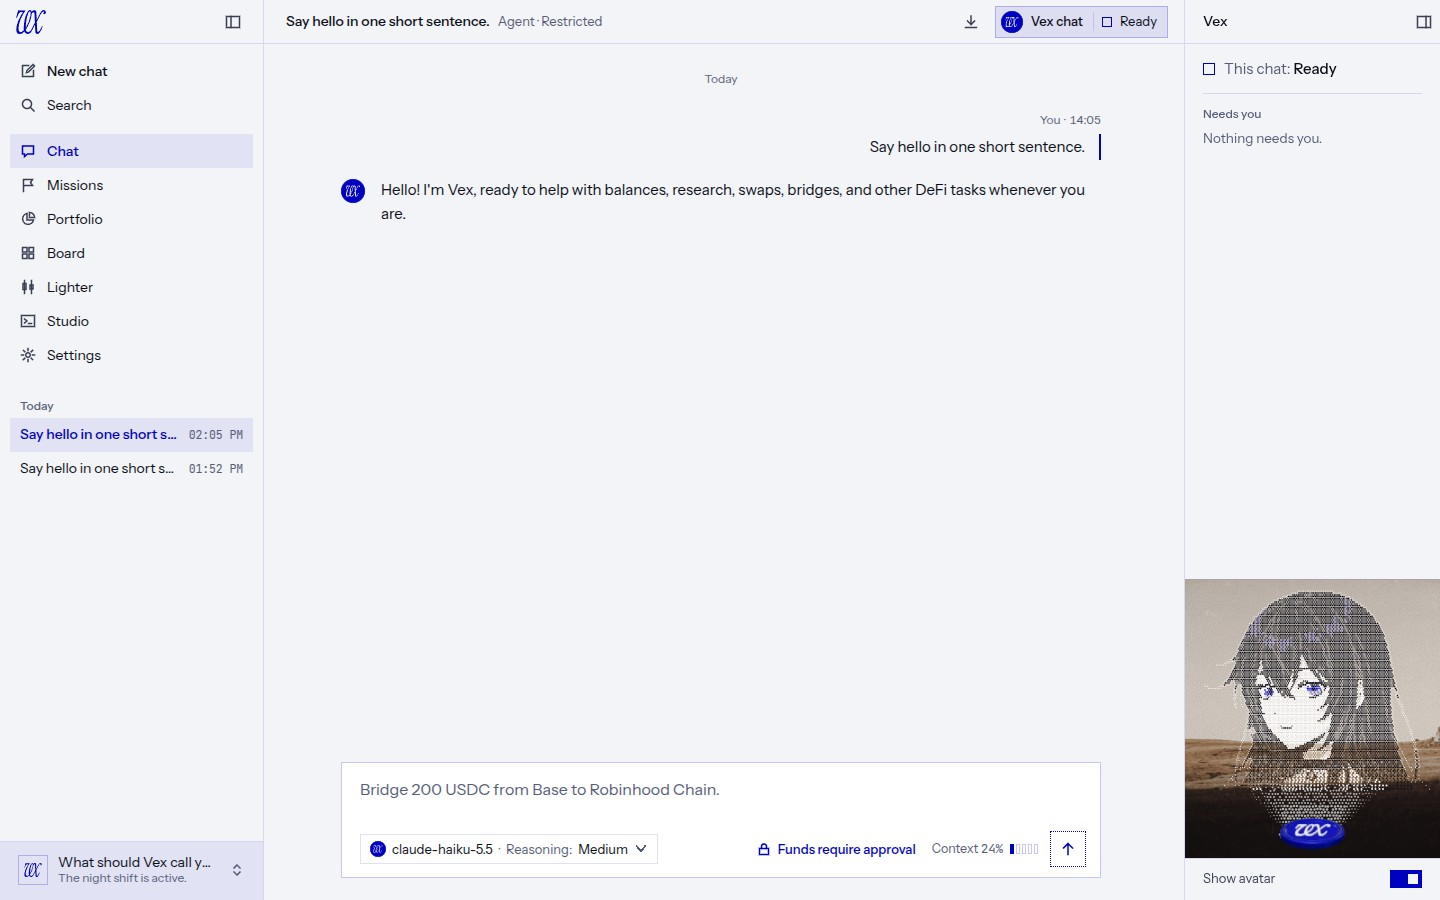
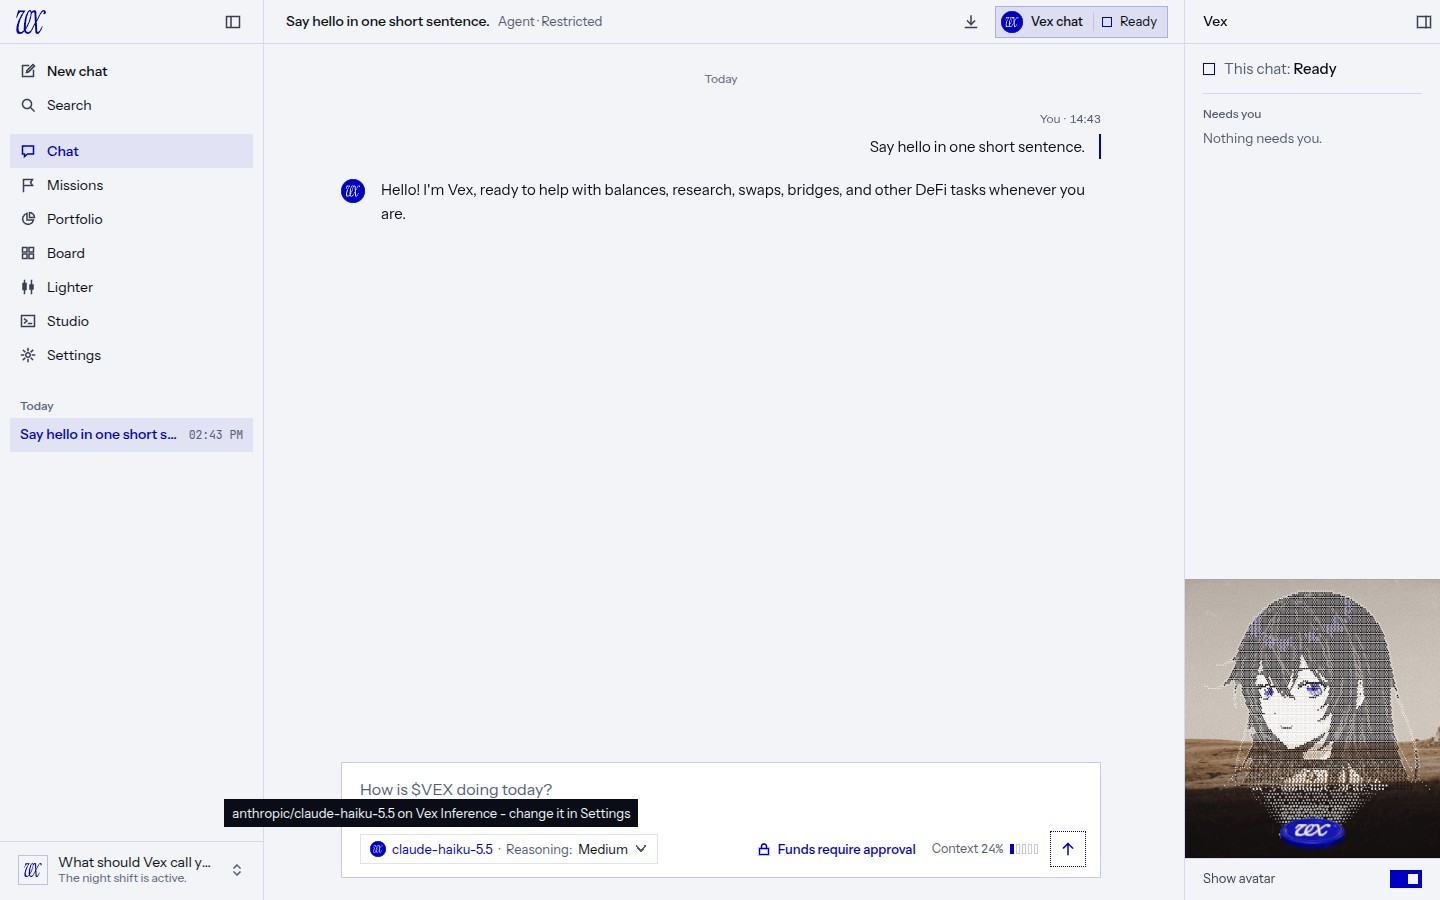
docs(app): re-shoot the v0.4.2 account, auto top-up and composer images
Captured from the built c969be6d0 app on a fresh throwaway profile with the
native runtime, signed in to the production Vex Inference gateway with perf
wallet T2, light theme at 1440x900. The account panel is shot at rest while
an owner deposit is still provisional, so "Deposit credit, not final yet"
carries a real amount at the new display precision. The auto top-up rule card
is shot and then rejected. The composer shot now shows the provider tooltip,
which no longer clips at the centre column. No transaction was signed.

The deposit approval card cannot be opened with no VEX on chain, and no
withdrawal was created, so both images leave the notes, and so does the
"Screenshots to capture" list; a closing line says they follow later.

The screenshot spec now imports a chosen perf wallet
(VEX_RELEASE_SHOTS_KEY_FILE plus VEX_RELEASE_SHOTS_WALLET) instead of a key
passed in the environment, shoots the account panel at rest right after the
provider stage, and waits for a new vault to finish sealing.

diff --git a/vex-app/e2e/release-0.4.2-screenshots.spec.ts b/vex-app/e2e/release-0.4.2-screenshots.spec.ts
@@ -7,14 +7,15 @@
  *   VEX_RELEASE_SHOTS=1
  *   VEX_RELEASE_SHOTS_DIR=<where the JPEGs go>
  *   VEX_RELEASE_SHOTS_PROFILE=<a throwaway config dir, reused across runs>
- *   VEX_RELEASE_SHOTS_PRIVATE_KEY=<the test wallet's key, never logged>
+ *   VEX_RELEASE_SHOTS_KEY_FILE=<a dotenv file holding the perf wallets' keys>
+ *   VEX_RELEASE_SHOTS_WALLET=<which perf wallet to import, e.g. 2 for VEX_PERF_2_PRIVATE_KEY>
  *   VEX_RELEASE_SHOTS_MODEL=<a verified embeddings model to hard-link>
  *   VEX_RELEASE_SHOTS_ONLY=<comma list of stages, default: all>
  *   VEX_RELEASE_SHOTS_DEBUG=<optional: a page dump per wizard step>
  *
- * Stages, in order: provider, deposit, auto-top-up, withdraw, chat (the one
- * paid turn), composer, account (a second paid turn, so "Reserved for running
- * requests" is non-zero), site-account, site. A shot that cannot be taken is
+ * Stages, in order: provider, account (the account panel at rest), deposit,
+ * auto-top-up, withdraw, chat (the one paid turn), composer, site-models,
+ * site. A shot that cannot be taken is
  * logged as SKIPPED with its reason and added to the test's annotations.
  * Run it from vex-app after the build:
  *   pnpm exec playwright test --project=electron-smoke e2e/release-0.4.2-screenshots.spec.ts
@@ -26,8 +27,13 @@
  * MONEY. The deposit and auto top-up stages open the approval card, capture
  * it and press Reject. The withdrawal stage only checks whether the account
  * can withdraw at all; creating and cancelling the withdrawal for the cooling
- * shot is a by-hand step. No other paid action runs except two short chat
- * turns on a cheap model.
+ * shot is a by-hand step. No other paid action runs except one short chat
+ * turn on a cheap model.
+ *
+ * The wallet key is read from the key file inside the test process only. It
+ * is never printed, and every *PRIVATE_KEY* variable is stripped from the
+ * app's environment; the key reaches the app only through the masked import
+ * field.
  */
 
 import { randomBytes } from "node:crypto";
@@ -39,6 +45,8 @@ import { APP_DIR, MAIN_BUNDLE, selectShellWindow } from "./fixtures/electron-app
 const OUT_DIR = process.env["VEX_RELEASE_SHOTS_DIR"] ?? "";
 const PROFILE = process.env["VEX_RELEASE_SHOTS_PROFILE"] ?? "";
 const MODEL = process.env["VEX_RELEASE_SHOTS_MODEL"] ?? "";
+const KEY_FILE = process.env["VEX_RELEASE_SHOTS_KEY_FILE"] ?? "";
+const WALLET = process.env["VEX_RELEASE_SHOTS_WALLET"] ?? "";
 const ONLY = new Set(
   (process.env["VEX_RELEASE_SHOTS_ONLY"] ?? "").split(",").map((s) => s.trim()).filter((s) => s !== ""),
 );
@@ -53,8 +61,6 @@ const WITHDRAW_PROBE_VEX = "998";
 const AUTO_TOP_UP = { perTopUp: "3000", perDay: "1", cap: "9000", fee: "0.0005", days: "30" } as const;
 /** The one composer turn: one line, so the answer is short and cheap. */
 const CHAT_PROMPT = "Say hello in one short sentence.";
-/** One short paid turn that runs long enough for "Reserved for running requests" to be non-zero. */
-const RESERVED_PROMPT = "Write a 300-word story about a lighthouse.";
 const TARGET = `${process.platform}-${process.arch === "arm64" ? "arm64" : "x64"}`;
 /** Built trees (native-runtime/out) win over the fetched ones, as in development. */
 const NATIVE_DIR = [
@@ -83,7 +89,7 @@ function appEnv(): Record<string, string> {
   const env: Record<string, string> = {};
   for (const [key, value] of Object.entries(process.env)) {
     if (value === undefined) continue;
-    if (key === "VEX_RELEASE_SHOTS_PRIVATE_KEY" || /PRIVATE_KEY/.test(key)) continue;
+    if (/PRIVATE_KEY/.test(key)) continue;
     env[key] = value;
   }
   env["VEX_CONFIG_DIR"] = PROFILE;
@@ -145,10 +151,22 @@ async function bootToWizardOrShell(page: Page): Promise<void> {
   }
 }
 
+/**
+ * The chosen perf wallet's key, VEX_PERF_<n>_PRIVATE_KEY from the key file.
+ * Errors name the variable, never the value.
+ */
 function walletKey(): string {
-  const key = process.env["VEX_RELEASE_SHOTS_PRIVATE_KEY"] ?? "";
+  if (KEY_FILE === "" || !/^[0-9]+$/.test(WALLET)) {
+    throw new Error("set VEX_RELEASE_SHOTS_KEY_FILE and VEX_RELEASE_SHOTS_WALLET (a perf wallet number) to import a wallet");
+  }
+  const name = `VEX_PERF_${WALLET}_PRIVATE_KEY`;
+  const line = readFileSync(KEY_FILE, "utf8")
+    .split(/\r?\n/)
+    .map((l) => /^\s*(?:export\s+)?([A-Za-z0-9_]+)\s*=\s*(.*?)\s*$/.exec(l))
+    .find((m) => m?.[1] === name);
+  const key = (line?.[2] ?? "").replace(/^["']|["']$/g, "");
   if (!/^(0x)?[0-9a-fA-F]{64}$/.test(key)) {
-    throw new Error("VEX_RELEASE_SHOTS_PRIVATE_KEY is missing or not a 32-byte hex key");
+    throw new Error(`${name} is missing from the key file or is not a 32-byte hex key`);
   }
   return key;
 }
@@ -183,6 +201,8 @@ async function walkWizard(page: Page, onProvider: (pane: ReturnType<typeof activ
           await pane.locator("#vex-keystore-password").fill(password);
           await pane.locator("#vex-keystore-confirm").fill(password);
           await pane.getByRole("button", { name: /Save and continue/ }).click();
+          // Sealing a new vault can take a while; wait for "Saving..." to clear.
+          await expect(pane.getByRole("button", { name: /^Saving/ })).toHaveCount(0, { timeout: 180_000 });
         } else {
           await pane.getByRole("button", { name: /^Continue$/ }).click();
         }
@@ -308,6 +328,16 @@ test("captures the v0.4.2 release screenshots", async ({}, testInfo) => {
       await shot(page, "0.4.2-inference-provider-choice.jpg");
     }
 
+    if (wants("account")) {
+      // The account panel at rest: balances, any deposit credit not final yet,
+      // the one rate line and the linked wallets.
+      await openSettings(page, "Inference");
+      await page.locator('[data-vex-cloud-balance="reserved"]').filter({ visible: true }).first().scrollIntoViewIfNeeded();
+      await page.mouse.move(10, 890);
+      await shot(page, "0.4.2-inference-account.jpg");
+      await shot(page, "site/site-inference-account.jpg");
+    }
+
     if (wants("deposit")) {
       // Review deposit, capture the card, Reject. Never Approve.
       await openFunding(page, "Deposit");
@@ -402,36 +432,17 @@ test("captures the v0.4.2 release screenshots", async ({}, testInfo) => {
       await expect(modelKey).toBeVisible();
       await page.mouse.move(10, 890);
       await page.waitForTimeout(600);
-      // No tooltip: at 1440 it is clipped by the transcript column's left edge.
-      await shot(page, "0.4.2-composer-provider-mark.jpg");
       await shot(page, "site/site-chat-inference.jpg");
+      // The provider tooltip, portaled out of the centre column since 0.4.2.
+      await modelKey.hover();
+      await expect(page.getByRole("tooltip").filter({ visible: true }).first()).toBeVisible({ timeout: 5_000 });
+      await shot(page, "0.4.2-composer-provider-mark.jpg");
+      await page.mouse.move(10, 890);
       await page.emulateMedia({ reducedMotion: null });
     }
 
-    if (wants("account")) {
-      await openSession(page);
-      const box = page.locator("textarea").filter({ visible: true }).first();
-      await box.fill(RESERVED_PROMPT);
-      await box.press("Enter");
-      await page.waitForTimeout(1500);
-      let reservedSeen = false;
-      for (let i = 0; i < 8 && !reservedSeen; i += 1) {
-        await openSettings(page, i % 2 === 0 ? "Inference" : "Preferences");
-        if (i % 2 !== 0) continue;
-        const reserved = page.locator('[data-vex-cloud-balance="reserved"]').filter({ visible: true }).first();
-        const text = (await reserved.textContent().catch(() => "")) ?? "";
-        reservedSeen = !/0\.00 VEX/.test(text) && /VEX/.test(text);
-      }
-      console.log(`reserved row non-zero while the turn ran: ${String(reservedSeen)}`);
-      await shot(page, "0.4.2-inference-account.jpg");
-      // Let the turn finish: closing the app mid-turn would cut it off.
-      await openSession(page);
-      await expect(page.getByText(/^Thinking$/).filter({ visible: true })).toHaveCount(0, { timeout: 180_000 });
-    }
-
-    if (wants("site-account")) {
+    if (wants("site-models")) {
       await openSettings(page, "Inference");
-      await shot(page, "site/site-inference-account.jpg");
       const combo = page.locator("#vex-provider-cloud-model").filter({ visible: true }).first();
       const options = page.getByRole("option").filter({ visible: true });
       for (let attempt = 0; attempt < 4; attempt += 1) {

diff --git a/vex-app/docs/release/v0.4.2/RELEASE_NOTES.md b/vex-app/docs/release/v0.4.2/RELEASE_NOTES.md
@@ -36,8 +36,6 @@ This release covers the work merged after **0.4.1**.
 ## 02 · Deposit
 ### VEX in, from the app.
 
-![Vex Inference · Deposit: the approval card with amount, sending wallet, deposit address, network fee bound and expiry](https://raw.githubusercontent.com/Vex-Foundation/Vex/8beb8afe837399af47c080da1c2da7e81aa31904/vex-app/docs/release/v0.4.2/0.4.2-inference-deposit-approval.jpg)
-
 **01 · One transfer.** Pick a linked wallet and an amount. VEX sends that VEX on Robinhood Chain to the Vex Inference deposit address. The transfer pays a small network fee in ETH on Robinhood Chain.
 
 **02 · The address is built in.** The deposit address ships inside the app. It does not come from a setting, the server or the agent. Before anything is signed, VEX checks that Vex Inference reports the same address. If they differ, nothing is sent.
@@ -73,8 +71,6 @@ This release covers the work merged after **0.4.1**.
 
 ## 04 · Withdraw
 ### Out, with a safety delay you can stop.
-
-![Vex Inference · Withdraw: a withdrawal cooling, "releases at HH:MM", with its Cancel key](https://raw.githubusercontent.com/Vex-Foundation/Vex/8beb8afe837399af47c080da1c2da7e81aa31904/vex-app/docs/release/v0.4.2/0.4.2-inference-withdraw-cooling.jpg)
 
 **01 · Only to your own wallets.** A withdrawal goes only to a wallet that is linked to your Vex Inference account and is in this app.
 
@@ -124,7 +120,7 @@ This release covers the work merged after **0.4.1**.
 ## 08 · Which provider, at a glance
 ### Marks that mean something.
 
-![The composer's model key with the vx disc for a Vex Inference model](https://raw.githubusercontent.com/Vex-Foundation/Vex/8beb8afe837399af47c080da1c2da7e81aa31904/vex-app/docs/release/v0.4.2/0.4.2-composer-provider-mark.jpg)
+![The composer's model key with the vx disc for a Vex Inference model, its tooltip naming the provider in words](https://raw.githubusercontent.com/Vex-Foundation/Vex/8beb8afe837399af47c080da1c2da7e81aa31904/vex-app/docs/release/v0.4.2/0.4.2-composer-provider-mark.jpg)
 
 **01 · In the composer.** The model key now starts with the mark of the provider serving it: the flat vx disc for Vex Inference, OpenRouter's own mark for OpenRouter. The tooltip and screen readers say the provider in words.
 
@@ -155,15 +151,4 @@ This release covers the work merged after **0.4.1**.
 
 ---
 
-## Screenshots to capture
-
-Save each as JPG in `vex-app/docs/release/v0.4.2/` with the file name below. After they are committed, replace `8beb8afe837399af47c080da1c2da7e81aa31904` in every image link above with that commit's full SHA (the v0.4.1 notes pin their images the same way).
-
-1. `0.4.2-inference-provider-choice.jpg`: Settings · Inference, the provider choice with Vex Inference first and marked Recommended, OpenRouter (your key) below it. Signed-in state, so the Vex Inference panel shows under the choice.
-2. `0.4.2-inference-deposit-approval.jpg`: Vex Inference funding page, Deposit tab, the approval card after Review deposit: amount, sending wallet, deposit address, network fee bound, expiry, and the "Spendable now up to $25.00" line. Use a small amount; do not send it unless a real deposit is intended.
-3. `0.4.2-inference-account.jpg`: Settings · Inference, Vex Inference account panel right after a deposit: Available, Reserved for running requests (ideally while a turn runs), Deposit credit not final yet, the single "1 VEX = $..., rate N min old" line, and the linked wallets.
-4. `0.4.2-inference-withdraw-cooling.jpg`: Withdraw tab, a withdrawal in its cooling period reading "Cooling, releases at HH:MM" with the Cancel key visible. Optionally a second shot of the withdrawal approval card with the Released line and Daily limit left.
-5. `0.4.2-inference-auto-top-up.jpg`: Auto top-up tab, the rule approval card (source wallet, per top-up, most per 24 hours, cap per 30 days, network fee limit, expiry), with the Low-balance alert setting visible.
-6. `0.4.2-composer-provider-mark.jpg`: a session composer with a Vex Inference model selected, the vx disc on the model key; tooltip open if it fits.
-
-Optional, not referenced above: the welcome page with the "AI is now paid in VEX" notice (OpenRouter configured), and the foreign-withdrawal notice in Needs you with Cancel and It was me (needs a withdrawal started outside the app).
+Screenshots of the deposit approval card and of a cooling withdrawal will be added in a later revision of these notes.
